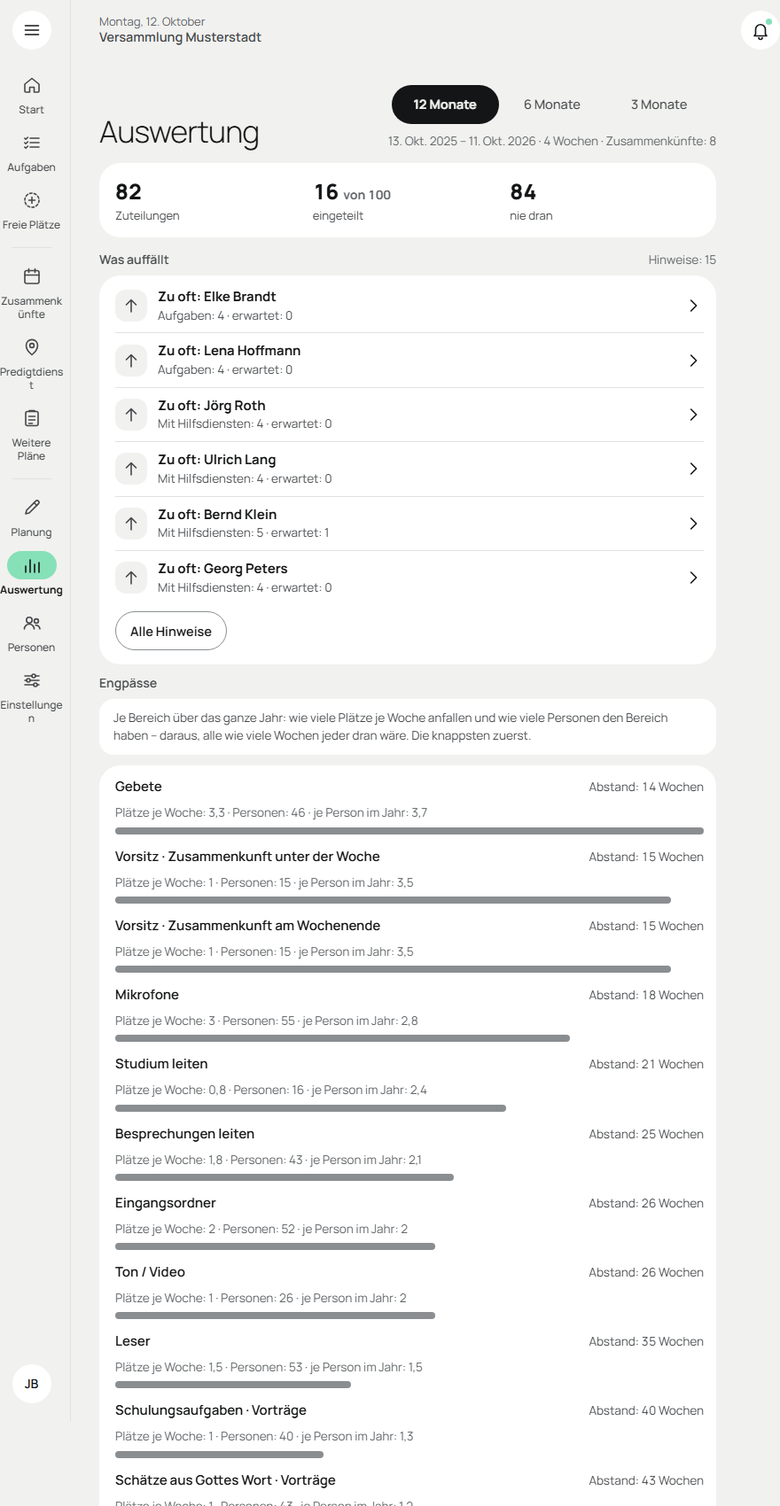
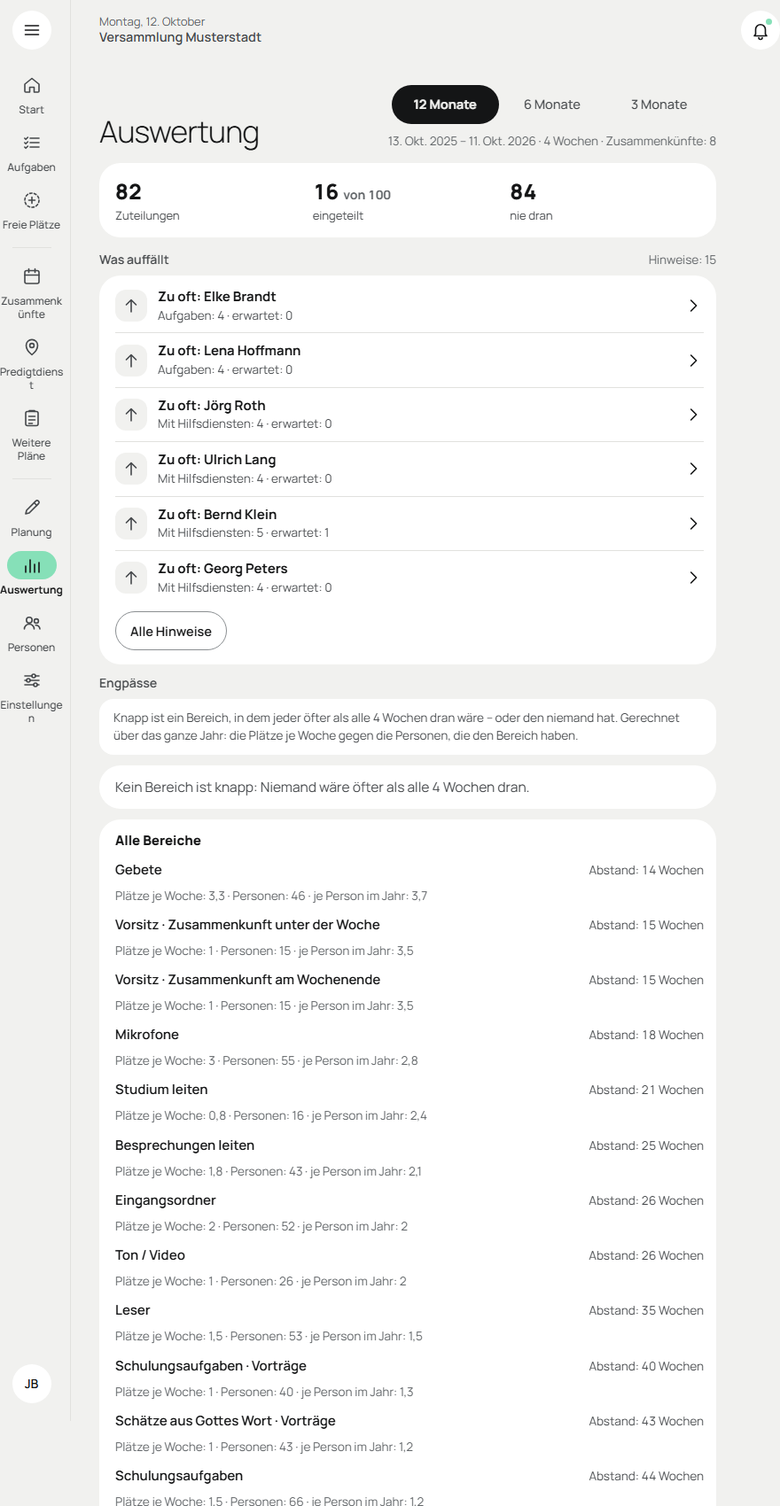
Auswertung: Engpässe nur, wo es knapp ist (T139)
Der Betreiber (24. Oktober): „Auswertung Engpassanalyse -macht das eventuell
sinn." Es standen alle Bereiche da, und die Kachel nannte „Am knappsten:
Gebete" — in den Testwochen bei einem Abstand von vierzehn Wochen. Entschieden
hat er „Nur echte Engpässe".

- Knapp ist ein Bereich, in dem jeder öfter als alle vier Wochen dran wäre,
  gerundet wie der Abstand daneben, oder den niemand hat (`istKnapp`,
  `KNAPP_UNTER` in `data/auswertung.ts`).
- Oben stehen nur diese, mit „Mehr Personen freigeben: Aufgabenbereiche
  vergibst du bei der Person."; ist keiner knapp, sagt es ein Satz mit der
  Grenze aus `KNAPP_UNTER`. Darunter „Alle Bereiche", die knappsten zuerst,
  ohne Balken.
- Die Kachel zählt „Knappe Bereiche: n" statt den knappsten zu nennen.
- Die ganze Liste steht als Zeilen da, nicht wie angeboten als Tabelle: Neben
  einer Spalte mit Zahlen bräche „Schulungsaufgaben" bei 320 px und Stufe 1,45
  mitten im Wort (wie in T137); in der Zeile rückt die Zahl darunter.
- Schlüssel: `awEngpassStat` fort, `awEngpaesseText` neu gefasst (mit der
  Grenze), fünf neue — in zwölf Sprachen.

Handbuch Planer (Engpässe, Kachel) und Bild der Auswertung nachgezogen.

Geprüft: tsc -b, oxlint, vitest, Build, Mutationsprobe (vier neue Regeln
bewacht).

diff --git a/src/auswertung/AuswertungScreen.test.tsx b/src/auswertung/AuswertungScreen.test.tsx
@@ -13,8 +13,8 @@ import { fremdsprachigerBestand, type FremdBestand } from '../../tests/fremdspra
 import { demoZustand } from '../../tests/testdaten/demo-start'
 import { datumsFormat, monatsName, zeitspanne } from '../components/datum-anzeige'
 import { abwesenheitenVon } from '../data/absence'
-import { auswerten, lageVon, personBild, TREFFPUNKT_BEREICH, ZEITRAEUME, type Einteilung, type Zeitraum } from '../data/auswertung'
-import { displayName } from '../data/helpers'
+import { auswerten, istKnapp, lageVon, personBild, TREFFPUNKT_BEREICH, ZEITRAEUME, type Einteilung, type Zeitraum } from '../data/auswertung'
+import { displayName, privSetzen, privWert } from '../data/helpers'
 import { fromIso, tagNach } from '../data/meeting-dates'
 import { allePlaetze, platzKey } from '../data/plaetze'
 import { bereichVon } from '../data/planning'
@@ -220,19 +220,63 @@ describe('Am Handy: der Überblick', () => {
     expect(container.querySelector('.aw-last-balken')).toBeNull()
   })
 
-  it('die Kachel „Engpässe" nennt den knappsten Bereich — die Unteransicht je Bereich Plätze, Personen und Abstand', () => {
-    const { container } = zeige(zustand())
-    const a = rechnung(zustand())
-    const erster = a.engpaesse[0]!
-    const kachel = [...container.querySelectorAll<HTMLElement>('.aw-kachel')].find((k) => k.querySelector('.aw-kachel-titel')?.textContent === t.awEngpaesseTitel)!
-    const name = bereichsName(erster.bereich, DEMO.services, t, (s) => s)
-    expect(kachel.textContent).toContain(fill(t.awEngpassStat, { bereich: name }))
+  /** Öffnet die Engpässe über ihre Kachel — und gibt die Kachel zurück, wie sie davor dastand. */
+  function engpaesseOeffnen(c: HTMLElement): string {
+    const kachel = [...c.querySelectorAll<HTMLElement>('.aw-kachel')].find((k) => k.querySelector('.aw-kachel-titel')?.textContent === t.awEngpaesseTitel)!
+    const text = kachel.textContent ?? ''
     fireEvent.click(kachel)
+    return text
+  }
+  const knappeKarte = (c: HTMLElement) => c.querySelector(`section[aria-label="${t.awKnappeBereiche}"]`)
+  const vierWochen = zeitspanne(4, 'week', 'de')
+
+  it('kein Bereich knapp: Die Kachel zählt null, die Unteransicht sagt es in einem Satz — darunter alle Bereiche (T139)', () => {
+    // In den Testwochen ist jeder höchstens alle vierzehn Wochen dran. Bis zum
+    // 24.10.2026 stand trotzdem „Am knappsten: Gebete" auf der Kachel.
+    const a = rechnung(zustand())
+    expect(a.engpaesse.filter(istKnapp)).toEqual([])
+    const { container } = zeige(zustand())
+    expect(engpaesseOeffnen(container)).toContain(fill(t.awKnappeZahl, { n: '0' }))
+    expect(knappeKarte(container)).toBeNull()
+    expect(container.querySelector('.aw-leer')?.textContent).toBe(fill(t.awKeinEngpass, { dauer: vierWochen }))
+    expect(container.querySelector('.aw-erklaerung')?.textContent).toBe(fill(t.awEngpaesseText, { dauer: vierWochen }))
+    // Alle Bereiche, die knappsten zuerst — je Bereich Abstand und Personen.
     const zeilen = [...container.querySelectorAll('.aw-engpaesse .aw-zeile')]
     expect(zeilen).toHaveLength(a.engpaesse.length)
-    expect(zeilen[0]!.querySelector('.aw-zeile-name')?.textContent).toBe(name)
+    const erster = a.engpaesse[0]!
+    expect(zeilen[0]!.querySelector('.aw-zeile-name')?.textContent).toBe(bereichsName(erster.bereich, DEMO.services, t, (s) => s))
     expect(zeilen[0]!.querySelector('.aw-zeile-zahl')?.textContent).toBe(fill(t.awAlleDauer, { dauer: zeitspanne(Math.round(erster.abstand!), 'week', 'de') }))
     expect(zeilen[0]!.querySelector('.klein-text')?.textContent).toContain(fill(t.awPersonenZahl, { n: String(erster.personen) }))
+  })
+
+  it('knappe Bereiche stehen oben, mit dem Rat, mehr Personen freizugeben — einer, den niemand hat, und einer mit zwei Personen', () => {
+    const a0 = rechnung(zustand())
+    // Den knappsten Bereich nimmt man allen, den zweiten allen bis auf zwei.
+    const [niemand, zwei] = [a0.engpaesse[0]!.bereich, a0.engpaesse[1]!.bereich]
+    const mitZwei = DEMO.persons.filter((p) => privWert(p.priv, zwei)).slice(0, 2).map((p) => p.id)
+    const persons = DEMO.persons.map((p) => {
+      const priv = { ...p.priv }
+      privSetzen(priv, niemand, false)
+      if (!mitZwei.includes(p.id)) privSetzen(priv, zwei, false)
+      return { ...p, priv }
+    })
+    const s = zustand({ persons })
+    const knappe = rechnung(s).engpaesse.filter(istKnapp)
+    expect(knappe.map((z) => z.bereich)).toEqual([niemand, zwei])
+    expect(knappe[0]!.abstand).toBeNull()
+
+    const { container } = zeige(s)
+    expect(engpaesseOeffnen(container)).toContain(fill(t.awKnappeZahl, { n: '2' }))
+    const karte = knappeKarte(container)!
+    const name = (b: string) => bereichsName(b, DEMO.services, t, (x) => x)
+    expect([...karte.querySelectorAll('.aw-zeile')].map((z) => [z.querySelector('.aw-zeile-name')?.textContent, z.querySelector('.aw-zeile-zahl')?.textContent])).toEqual([
+      [name(niemand), t.awNiemandHatIhn],
+      [name(zwei), fill(t.awAlleDauer, { dauer: zeitspanne(Math.max(1, Math.round(knappe[1]!.abstand!)), 'week', 'de') })],
+    ])
+    expect(karte.textContent).toContain(t.awMehrFreigeben)
+    expect(container.querySelector('.aw-leer')).toBeNull()
+    // Die ganze Liste bleibt darunter.
+    expect(container.querySelectorAll('.aw-engpaesse .aw-zeile')).toHaveLength(rechnung(s).engpaesse.length)
   })
 
   it.each([

diff --git a/src/auswertung/EngpaesseAnsicht.tsx b/src/auswertung/EngpaesseAnsicht.tsx
@@ -1,49 +1,74 @@
+import { istKnapp, KNAPP_UNTER, type Engpass } from '../data/auswertung'
 import { fill } from '../i18n/useT'
-import { MiniBalken } from './Diagramme'
 import { gerundet, type Kontext } from './kontext'
 
 /**
- * **Engpässe** (Jahresprobe 18.10.2026): je Bereich, wie viele Plätze je Woche
- * anfallen und wie viele Personen ihn haben — daraus, alle wie viele Wochen
- * jeder dran wäre und wie oft im Jahr. Die knappsten zuerst, immer über das
- * ganze Jahr. Der Balken ist die Last je Person; ein Bereich, den niemand hat,
- * steht ganz vorn in der Problemfarbe.
+ * **Engpässe** (Jahresprobe 18.10.2026; T139): je Bereich, wie viele Plätze je
+ * Woche anfallen und wie viele Personen ihn haben — daraus, alle wie viele
+ * Wochen jeder dran wäre. Immer über das ganze Jahr.
+ *
+ * Oben stehen nur die knappen Bereiche (`istKnapp`) mit dem Rat, mehr Personen
+ * freizugeben; ist keiner knapp, sagt es ein Satz. Darunter alle Bereiche, die
+ * knappsten zuerst — als Zeilen, nicht als Tabelle: Neben einer Spalte mit
+ * Zahlen bräche „Schulungsaufgaben" bei 320 px und Stufe 1,45 mitten im Wort,
+ * hier rückt die Zahl darunter. Bis zum 24.10.2026 stand jeder Bereich mit
+ * Balken da, und die Kachel nannte „Am knappsten: Gebete" — bei einem Abstand
+ * von vierzehn Wochen.
  */
 export function EngpaesseAnsicht({ k }: { k: Kontext }) {
   const { t } = k
   const liste = k.a.engpaesse
   if (liste.length === 0) return <p className="karte aw-leer">{t.awKeineDaten}</p>
-  const max = Math.max(1, ...liste.map((z) => z.jePersonJahr ?? 0))
+  const knappe = liste.filter(istKnapp)
+  const grenze = k.dauer(KNAPP_UNTER)
   return (
     <div className="aw-ansicht">
-      <p className="aw-erklaerung">{t.awEngpaesseText}</p>
-      <div className="karte aw-gruppe aw-engpaesse">
-        <ul className="aw-zeilen">
-          {liste.map((z) => {
-            // „Plätze je Woche: 1,5 · Personen: 8 · je Person im Jahr: 10"
-            const zahlen = [
+      <p className="aw-erklaerung">{fill(t.awEngpaesseText, { dauer: grenze })}</p>
+      {knappe.length === 0 ? (
+        <p className="karte aw-leer">{fill(t.awKeinEngpass, { dauer: grenze })}</p>
+      ) : (
+        <section className="karte aw-gruppe" aria-label={t.awKnappeBereiche}>
+          <h2 className="aw-gruppe-kopf">
+            <span>{t.awKnappeBereiche}</span>
+            <span className="klein-text">{k.zahl(knappe.length)}</span>
+          </h2>
+          <Zeilen liste={knappe} k={k} />
+          <p className="klein-text">{t.awMehrFreigeben}</p>
+        </section>
+      )}
+      <section className="karte aw-gruppe aw-engpaesse" aria-label={t.awAlleBereiche}>
+        <h2 className="aw-gruppe-kopf">{t.awAlleBereiche}</h2>
+        <Zeilen liste={liste} k={k} />
+      </section>
+    </div>
+  )
+}
+
+/** Je Bereich: rechts der Abstand, darunter „Plätze je Woche: 1,5 · Personen: 3 · je Person im Jahr: 26". */
+function Zeilen({ liste, k }: { liste: readonly Engpass[]; k: Kontext }) {
+  const { t } = k
+  return (
+    <ul className="aw-zeilen">
+      {liste.map((z) => (
+        <li key={z.bereich} className="aw-zeile">
+          <div className="aw-zeile-kopf">
+            <span className="aw-zeile-name">{k.bereich(z.bereich)}</span>
+            <span className="aw-zeile-zahl">
+              {/* Unter einer Woche gibt es nicht: Dann ist jeder jede Woche dran. */}
+              {z.abstand === null ? t.awNiemandHatIhn : fill(t.awAlleDauer, { dauer: k.dauer(Math.max(1, gerundet(z.abstand))) })}
+            </span>
+          </div>
+          <span className="klein-text">
+            {[
               fill(t.awPlaetzeJeWoche, { n: k.zahl(z.jeWoche) }),
               fill(t.awPersonenZahl, { n: k.zahl(z.personen) }),
               z.jePersonJahr !== null && fill(t.awJePersonJahr, { n: k.zahl(z.jePersonJahr) }),
             ]
               .filter(Boolean)
-              .join(' · ')
-            return (
-              <li key={z.bereich} className="aw-zeile">
-                <div className="aw-zeile-kopf">
-                  <span className="aw-zeile-name">{k.bereich(z.bereich)}</span>
-                  <span className="aw-zeile-zahl">
-                    {/* Unter einer Woche gibt es nicht: Dann ist jeder jede Woche dran. */}
-                    {z.abstand === null ? t.awNiemandHatIhn : fill(t.awAlleDauer, { dauer: k.dauer(Math.max(1, gerundet(z.abstand))) })}
-                  </span>
-                </div>
-                <span className="klein-text">{zahlen}</span>
-                <MiniBalken n={z.jePersonJahr ?? max} max={max} auffaellig={z.abstand === null} />
-              </li>
-            )
-          })}
-        </ul>
-      </div>
-    </div>
+              .join(' · ')}
+          </span>
+        </li>
+      ))}
+    </ul>
   )
 }

diff --git a/src/i18n/overlays/ru.ts b/src/i18n/overlays/ru.ts
@@ -884,11 +884,15 @@ export default {
   "awZuletztVor": "последний раз {dauer} назад",
   "awGeplant": "запланировано: {datum}",
   "awEngpaesseTitel": "Узкие места",
-  "awEngpassStat": "Самая напряжённая: {bereich}",
-  "awEngpaesseText": "По каждой обязанности за весь год: сколько мест приходится на неделю и у скольких людей есть эта обязанность – а отсюда, через сколько недель подходит очередь каждого человека. Сначала самые напряжённые.",
+  "awEngpaesseText": "Обязанность напряжена, если очередь каждого человека подходила бы чаще, чем раз в {dauer}, – или если её ни у кого нет. Расчёт за весь год: места в неделю в сравнении с числом людей, у которых есть эта обязанность.",
   "awPlaetzeJeWoche": "Мест в неделю: {n}",
   "awJePersonJahr": "на человека в год: {n}",
   "awNiemandHatIhn": "ни у кого нет этой обязанности",
+  "awKnappeBereiche": "Напряжённые обязанности",
+  "awKnappeZahl": "Напряжённые обязанности: {n}",
+  "awAlleBereiche": "Все обязанности",
+  "awKeinEngpass": "Ни одна обязанность не напряжена: ни у кого очередь не подходила бы чаще, чем раз в {dauer}.",
+  "awMehrFreigeben": "Дайте эту обязанность большему числу людей: обязанности вы задаёте в данных человека.",
   "ansichtTitel": "Просмотр для проверки",
   "ansichtHinweis": "Показывает приложение так, как его видит человек на этом уровне. Всё, что вы при этом делаете, происходит по-настоящему — с вашими правами. После перезагрузки снова действуют ваши права.",
   "ansichtAlsLbl": "Смотреть как",

diff --git a/src/i18n/overlays/uk.ts b/src/i18n/overlays/uk.ts
@@ -884,11 +884,15 @@ export default {
   "awZuletztVor": "востаннє {dauer} тому",
   "awGeplant": "заплановано: {datum}",
   "awEngpaesseTitel": "Вузькі місця",
-  "awEngpassStat": "Найнапруженіший: {bereich}",
-  "awEngpaesseText": "За кожним обов’язком за весь рік: скільки місць припадає на тиждень і скільки людей мають цей обов’язок – а звідси, через скільки тижнів настає черга кожної людини. Спершу найнапруженіші.",
+  "awEngpaesseText": "Обов’язок напружений, якщо черга кожної людини наставала б частіше, ніж раз на {dauer}, – або якщо його ніхто не має. Розрахунок за весь рік: місця на тиждень порівняно з кількістю людей, які мають цей обов’язок.",
   "awPlaetzeJeWoche": "Місць на тиждень: {n}",
   "awJePersonJahr": "на людину за рік: {n}",
   "awNiemandHatIhn": "ніхто не має цього обов’язку",
+  "awKnappeBereiche": "Напружені обов’язки",
+  "awKnappeZahl": "Напружені обов’язки: {n}",
+  "awAlleBereiche": "Усі обов’язки",
+  "awKeinEngpass": "Жоден обов’язок не напружений: ні в кого черга не наставала б частіше, ніж раз на {dauer}.",
+  "awMehrFreigeben": "Надайте цей обов’язок більшій кількості людей: обов’язки ви вказуєте в даних людини.",
   "ansichtTitel": "Перегляд для перевірки",
   "ansichtHinweis": "Показує застосунок так, як його бачить людина на цьому рівні. Усе, що ви при цьому робите, відбувається насправді — з вашими правами. Після перезавантаження знову діють ваші права.",
   "ansichtAlsLbl": "Дивитися як",

diff --git a/src/auswertung/AuswertungScreen.tsx b/src/auswertung/AuswertungScreen.tsx
@@ -9,7 +9,7 @@ import { gebundenesDatum, jahrZahl, monatsName, tageSpanne, zeitspanne } from '.
 import { gruppenName } from '../components/weitere-plaene-anzeige'
 import { useBackDismiss } from '../components/useBackDismiss'
 import { DESKTOP_BREITE, TABLET_BREITE, useMedia } from '../components/useMedia'
-import { auswerten, istEinseitig, ZEITRAEUME, type Auswertung, type Zeitraum } from '../data/auswertung'
+import { auswerten, istEinseitig, istKnapp, ZEITRAEUME, type Auswertung, type Zeitraum } from '../data/auswertung'
 import { displayName } from '../data/helpers'
 import { fromIso, tagNach } from '../data/meeting-dates'
 import { LOCALES } from '../i18n/langs'
@@ -267,17 +267,12 @@ function Kacheln({ k, zu }: { k: Kontext; zu: (ansicht: Ansicht) => void }) {
   const selten = v.filter((h) => h.art === 'selten').length
   // Wer in zwei Bereichen lange wartet, zählt einmal.
   const wartende = new Set(v.flatMap((h) => (h.art === 'wartet' ? h.pids : [])))
-  const engster = a.engpaesse[0]
   const kacheln: { ansicht: Exclude<Ansicht, 'ueberblick'>; zeichen: ZeichenName; titel: string; zahl: string }[] = [
     { ansicht: 'verteilung', zeichen: 'auswertung', titel: t.awVerteilungTitel, zahl: fill(t.awVerteilungStat, { n: k.zahl(oft), m: k.zahl(selten) }) },
     { ansicht: 'einseitig', zeichen: 'halb', titel: t.awEinseitigTitel, zahl: fill(t.awPersonenZahl, { n: k.zahl(a.einseitig.filter(istEinseitig).length) }) },
     { ansicht: 'wartezeiten', zeichen: 'uhr', titel: t.awWartezeitenTitel, zahl: fill(t.awWartenLangeZahl, { n: k.zahl(wartende.size) }) },
-    {
-      ansicht: 'engpaesse',
-      zeichen: 'personen',
-      titel: t.awEngpaesseTitel,
-      zahl: engster ? fill(t.awEngpassStat, { bereich: k.bereich(engster.bereich) }) : '',
-    },
+    // Die knappen Bereiche, nicht der knappste aller (T139): „Am knappsten: Gebete" stand auch bei vierzehn Wochen Abstand da.
+    { ansicht: 'engpaesse', zeichen: 'personen', titel: t.awEngpaesseTitel, zahl: fill(t.awKnappeZahl, { n: k.zahl(a.engpaesse.filter(istKnapp).length) }) },
     {
       ansicht: 'weiteres',
       zeichen: 'predigtdienst',

diff --git a/src/i18n/overlays/fa.ts b/src/i18n/overlays/fa.ts
@@ -883,11 +883,15 @@ export default {
   "awZuletztVor": "آخرین بار {dauer} پیش",
   "awGeplant": "تعیین شده: {datum}",
   "awEngpaesseTitel": "گلوگاهها",
-  "awEngpassStat": "تنگترین: {bereich}",
-  "awEngpaesseText": "برای هر حوزه در طول کل سال: هر هفته چند جا هست و چند نفر این حوزه را دارند – و از آن، نوبت هر شخص هر چند هفته یک بار میرسد. تنگترینها اول.",
+  "awEngpaesseText": "حوزهای تنگ است که نوبت هر شخص در آن بیش از یک بار در هر {dauer} برسد – یا هیچکس آن را نداشته باشد. محاسبه در طول کل سال: جاهای هر هفته در برابر افرادی که این حوزه را دارند.",
   "awPlaetzeJeWoche": "جا در هفته: {n}",
   "awJePersonJahr": "برای هر نفر در سال: {n}",
   "awNiemandHatIhn": "هیچکس این حوزه را ندارد",
+  "awKnappeBereiche": "حوزههای تنگ",
+  "awKnappeZahl": "حوزههای تنگ: {n}",
+  "awAlleBereiche": "همهٔ حوزهها",
+  "awKeinEngpass": "هیچ حوزهای تنگ نیست: نوبت هیچکس بیش از یک بار در هر {dauer} نمیرسد.",
+  "awMehrFreigeben": "این حوزه را به افراد بیشتری بدهید: حوزههای وظیفه را در صفحهٔ فرد تعیین میکنید.",
   "ansichtTitel": "نمای آزمایشی",
   "ansichtHinweis": "برنامه را همانطور نشان میدهد که حسابی با این سطح میبیند. هر کاری که اینجا انجام دهید واقعی است و با دسترسیهای خود شما انجام میشود. پس از بارگذاری دوباره، دسترسیهای خودتان دوباره برقرار است.",
   "ansichtAlsLbl": "نمایش بهعنوان",

diff --git a/src/i18n/de.ts b/src/i18n/de.ts
@@ -882,11 +882,15 @@ export const DE = {
     // Wartezeiten (Review 17.10.2026): Wer im Bereich schon eingeteilt ist, wartet nicht.
     awGeplant: 'geplant: {datum}',
     // Engpässe (Jahresprobe 18.10.2026): je Bereich Plätze je Woche gegen die
-    // Personen, die ihn haben. Die Zahlen stehen als „Bezeichnung: {n}".
-    awEngpaesseTitel: 'Engpässe', awEngpassStat: 'Am knappsten: {bereich}',
-    awEngpaesseText: 'Je Bereich über das ganze Jahr: wie viele Plätze je Woche anfallen und wie viele Personen den Bereich haben – daraus, alle wie viele Wochen jeder dran wäre. Die knappsten zuerst.',
+    // Personen, die ihn haben. Die Zahlen stehen als „Bezeichnung: {n}". Seit
+    // T139 oben nur die knappen; {dauer} ist die Grenze („4 Wochen").
+    awEngpaesseTitel: 'Engpässe',
+    awEngpaesseText: 'Knapp ist ein Bereich, in dem jeder öfter als alle {dauer} dran wäre – oder den niemand hat. Gerechnet über das ganze Jahr: die Plätze je Woche gegen die Personen, die den Bereich haben.',
     awPlaetzeJeWoche: 'Plätze je Woche: {n}', awJePersonJahr: 'je Person im Jahr: {n}',
     awNiemandHatIhn: 'niemand hat den Bereich',
+    awKnappeBereiche: 'Knappe Bereiche', awKnappeZahl: 'Knappe Bereiche: {n}', awAlleBereiche: 'Alle Bereiche',
+    awKeinEngpass: 'Kein Bereich ist knapp: Niemand wäre öfter als alle {dauer} dran.',
+    awMehrFreigeben: 'Mehr Personen freigeben: Aufgabenbereiche vergibst du bei der Person.',
     // Absagen (T126, seit 17.10.2026 aufgezeichnet). {anteil}/{sonst} sind Prozente aus `Intl`.
     awAbsagenTitel: 'Absagen je Bereich', awAbsagenZahl: 'Absagen: {n}', awAnteilVon: '{anteil} von {m}',
     awAbsagenText: 'Gezählt wird, wer seine Zuteilung abgesagt hat – auch wenn der Platz danach neu besetzt wurde. Der Anteil bezieht sich auf alle Zuteilungen des Bereichs.',

diff --git a/src/i18n/overlays/ar.ts b/src/i18n/overlays/ar.ts
@@ -884,11 +884,15 @@ export default {
   "awZuletztVor": "آخر مرة منذ {dauer}",
   "awGeplant": "مقرر: {datum}",
   "awEngpaesseTitel": "نقاط الاختناق",
-  "awEngpassStat": "الأشد ضيقًا: {bereich}",
-  "awEngpaesseText": "لكل مجال على مدى السنة كلها: كم مكانًا في كل أسبوع وكم شخصًا لديه المجال – ومن ذلك، كل كم أسبوعًا يأتي دور كل شخص. الأشد ضيقًا أولًا.",
+  "awEngpaesseText": "يكون المجال ضيقًا إذا كان دور كل شخص سيأتي أكثر من مرة كل {dauer} – أو إذا لم يكن المجال لدى أحد.يُحسب على مدى السنة كلها: الأماكن في الأسبوع مقابل الأشخاص الذين لديهم المجال.",
   "awPlaetzeJeWoche": "الأماكن في الأسبوع: {n}",
   "awJePersonJahr": "لكل شخص في السنة: {n}",
   "awNiemandHatIhn": "لا أحد لديه المجال",
+  "awKnappeBereiche": "مجالات ضيقة",
+  "awKnappeZahl": "مجالات ضيقة: {n}",
+  "awAlleBereiche": "كل المجالات",
+  "awKeinEngpass": "لا يوجد مجال ضيق: لن يأتي دور أحد أكثر من مرة كل {dauer}.",
+  "awMehrFreigeben": "يساعد منح المجال لأشخاص أكثر: تُحدَّد مجالات التعيين في صفحة الشخص.",
   "ansichtTitel": "عرض للاختبار",
   "ansichtHinweis": "يعرض التطبيق كما يراه حساب بهذا المستوى. ما تفعله هنا حقيقي ويتم بصلاحياتك الخاصة. بعد إعادة التحميل تعود صلاحياتك.",
   "ansichtAlsLbl": "العرض بصفة",

diff --git a/src/i18n/overlays/fr.ts b/src/i18n/overlays/fr.ts
@@ -884,11 +884,15 @@ export default {
   "awZuletztVor": "la dernière fois il y a {dauer}",
   "awGeplant": "prévu\u00a0: {datum}",
   "awEngpaesseTitel": "Goulets d’étranglement",
-  "awEngpassStat": "Le plus tendu\u00a0: {bereich}",
-  "awEngpaesseText": "Par domaine, sur toute l’année\u00a0: combien de places il y a chaque semaine et combien de personnes ont le domaine – et donc toutes les combien de semaines vient le tour de chaque personne. Les plus tendus d’abord.",
+  "awEngpaesseText": "Un domaine est tendu si chacun aurait son tour plus souvent que toutes les {dauer} – ou si personne ne l’a. Calculé sur toute l’année\u00a0: les places par semaine rapportées aux personnes qui ont le domaine.",
   "awPlaetzeJeWoche": "Places par semaine\u00a0: {n}",
   "awJePersonJahr": "par personne et par an\u00a0: {n}",
   "awNiemandHatIhn": "personne n’a le domaine",
+  "awKnappeBereiche": "Domaines tendus",
+  "awKnappeZahl": "Domaines tendus\u00a0: {n}",
+  "awAlleBereiche": "Tous les domaines",
+  "awKeinEngpass": "Aucun domaine n’est tendu\u00a0: personne n’aurait son tour plus souvent que toutes les {dauer}.",
+  "awMehrFreigeben": "Attribue le domaine à plus de personnes\u00a0: tu définis les domaines d’attribution dans la fiche de la personne.",
   "ansichtTitel": "Vue de test",
   "ansichtHinweis": "Montre l’application telle qu’un compte de ce niveau la voit. Ce que tu fais est réel et se fait avec tes propres droits. Après un rechargement, tes droits s’appliquent à nouveau.",
   "ansichtAlsLbl": "Voir en tant que",

diff --git a/src/i18n/overlays/pl.ts b/src/i18n/overlays/pl.ts
@@ -884,11 +884,15 @@ export default {
   "awZuletztVor": "ostatnio {dauer} temu",
   "awGeplant": "zaplanowano: {datum}",
   "awEngpaesseTitel": "Wąskie gardła",
-  "awEngpassStat": "Najbardziej obciążone: {bereich}",
-  "awEngpaesseText": "Dla każdego uprawnienia z całego roku: ile miejsc przypada na tydzień i ile osób ma to uprawnienie – a stąd co ile tygodni przypadałaby kolej każdej osoby. Najpierw najbardziej obciążone.",
+  "awEngpaesseText": "Uprawnienie jest obciążone, jeśli kolej każdej osoby przypadałaby częściej niż co {dauer} – albo jeśli nikt go nie ma. Liczone z całego roku: miejsca na tydzień w stosunku do osób, które mają to uprawnienie.",
   "awPlaetzeJeWoche": "Miejsca na tydzień: {n}",
   "awJePersonJahr": "na osobę w roku: {n}",
   "awNiemandHatIhn": "nikt nie ma tego uprawnienia",
+  "awKnappeBereiche": "Obciążone uprawnienia",
+  "awKnappeZahl": "Obciążone uprawnienia: {n}",
+  "awAlleBereiche": "Wszystkie uprawnienia",
+  "awKeinEngpass": "Żadne uprawnienie nie jest obciążone: niczyja kolej nie przypadałaby częściej niż co {dauer}.",
+  "awMehrFreigeben": "Nadaj to uprawnienie większej liczbie osób: uprawnienia nadajesz w danych osoby.",
   "ansichtTitel": "Widok testowy",
   "ansichtHinweis": "Pokazuje aplikację tak, jak widzi ją konto na tym poziomie. To, co robisz, jest prawdziwe i odbywa się z twoimi prawami dostępu. Po ponownym wczytaniu znów obowiązują twoje prawa dostępu.",
   "ansichtAlsLbl": "Wyświetl jako",

diff --git a/src/i18n/overlays/ro.ts b/src/i18n/overlays/ro.ts
@@ -884,11 +884,15 @@ export default {
   "awZuletztVor": "ultima dată acum {dauer}",
   "awGeplant": "planificat: {datum}",
   "awEngpaesseTitel": "Puncte critice",
-  "awEngpassStat": "Cel mai critic: {bereich}",
-  "awEngpaesseText": "Pe domeniu, pe tot anul: câte locuri sunt în fiecare săptămână și câte persoane au domeniul – de aici, la câte săptămâni ar veni rândul fiecărei persoane. Întâi cele mai critice.",
+  "awEngpaesseText": "Un domeniu este critic dacă rândul fiecărei persoane ar veni mai des decât o dată la {dauer} – sau dacă nu îl are nimeni. Calculat pe tot anul: locurile pe săptămână față de persoanele care au domeniul.",
   "awPlaetzeJeWoche": "Locuri pe săptămână: {n}",
   "awJePersonJahr": "pe persoană pe an: {n}",
   "awNiemandHatIhn": "nimeni nu are domeniul",
+  "awKnappeBereiche": "Domenii critice",
+  "awKnappeZahl": "Domenii critice: {n}",
+  "awAlleBereiche": "Toate domeniile",
+  "awKeinEngpass": "Niciun domeniu nu este critic: rândul nimănui nu ar veni mai des decât o dată la {dauer}.",
+  "awMehrFreigeben": "Dă domeniul mai multor persoane: domeniile le stabilești în datele persoanei.",
   "ansichtTitel": "Vizualizare de test",
   "ansichtHinweis": "Arată aplicația așa cum o vede un cont de acest nivel. Ce faci aici este real și se face cu propriile tale drepturi. După reîncărcare, se aplică din nou drepturile tale.",
   "ansichtAlsLbl": "Vezi ca",

diff --git a/src/i18n/overlays/es.ts b/src/i18n/overlays/es.ts
@@ -884,11 +884,15 @@ export default {
   "awZuletztVor": "la última vez hace {dauer}",
   "awGeplant": "previsto: {datum}",
   "awEngpaesseTitel": "Cuellos de botella",
-  "awEngpassStat": "Mayor escasez: {bereich}",
-  "awEngpaesseText": "Por área, en todo el año: cuántos puestos hay cada semana y cuántas personas tienen el área; de ahí, cada cuántas semanas le tocaría a cada persona. Primero las áreas con mayor escasez.",
+  "awEngpaesseText": "Un área tiene escasez si a cada persona le tocaría con más frecuencia que cada {dauer}, o si nadie la tiene. Se calcula sobre todo el año: los puestos por semana frente a las personas que tienen el área.",
   "awPlaetzeJeWoche": "Puestos por semana: {n}",
   "awJePersonJahr": "por persona al año: {n}",
   "awNiemandHatIhn": "nadie tiene el área",
+  "awKnappeBereiche": "Áreas con escasez",
+  "awKnappeZahl": "Áreas con escasez: {n}",
+  "awAlleBereiche": "Todas las áreas",
+  "awKeinEngpass": "Ninguna área tiene escasez: a nadie le tocaría con más frecuencia que cada {dauer}.",
+  "awMehrFreigeben": "Da el área a más personas: las áreas de asignación las indicas en los datos de la persona.",
   "ansichtTitel": "Vista de prueba",
   "ansichtHinweis": "Muestra la aplicación como la ve una cuenta de este nivel. Lo que hagas es real y se hace con tus propios permisos. Al recargar, vuelven a valer tus permisos.",
   "ansichtAlsLbl": "Ver como",
